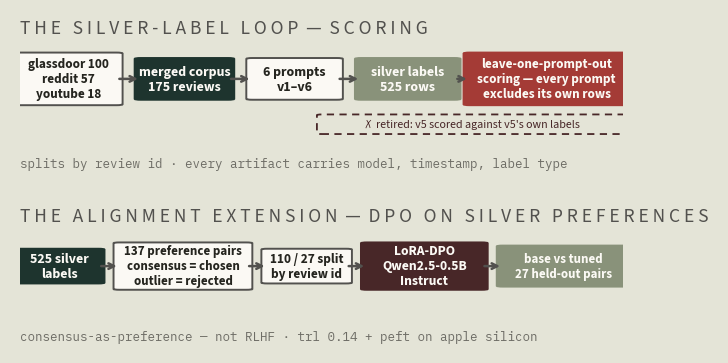
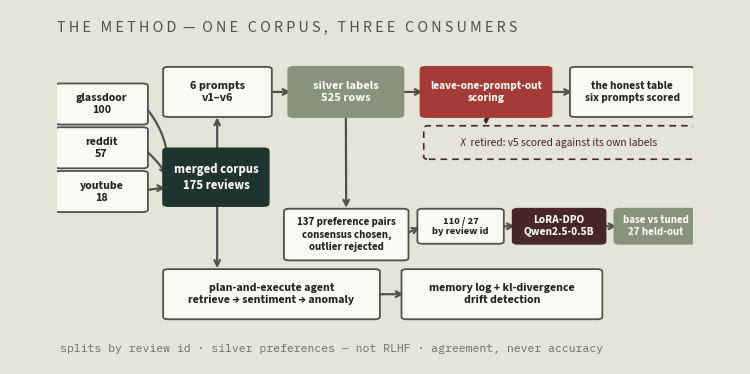
Redraw the method schematic as one combined flow diagram
Replaces the two flat chip rows with the story the portfolio entry
tells: three sources fanning into the merged corpus, three consumer
lanes fanning out (evaluation harness with the wine-dashed retired
self-scoring failure site, alignment extension fed by the labels,
plan-and-execute agent with memory and drift), connected by explicit
arrows. Same fieldnotes theme, art-box aspect padding, no metrics.

diff --git a/scripts/portfolio_method_schematic.py b/scripts/portfolio_method_schematic.py
@@ -1,16 +1,14 @@
 #!/usr/bin/env python3
 """Method schematic for the portfolio card: how ReviewInsight AI works.
 
-Band 1: the silver-label scoring loop (three-source corpus -> six prompt
-templates -> silver labels -> leave-one-prompt-out scoring), with the wine
-dashed annotation marking the retired self-scoring failure site.
-Band 2: the alignment extension (silver labels -> constructed preference
-pairs -> review-ID split -> LoRA-DPO -> held-out base-vs-tuned check).
+One combined flow diagram (not two flat rows): three sources fan into the
+merged corpus, and three consumer lanes fan out — the evaluation harness,
+the alignment extension (fed by the labels, with the retired self-scoring
+failure site marked wine-dashed), and the agent that reads the same corpus.
+Counts, model names, and protocol values are real; no metrics are drawn.
 
-Illustrative diagram: counts, model names, and protocol values are real
-(frozen artifacts named in the entry); no metrics are drawn. Fieldnotes
-theme, Source Sans 3 / IBM Plex Mono, canvas padded to the gallery art-box
-aspect at save time. Structure copied from
+Fieldnotes theme, Source Sans 3 / IBM Plex Mono, canvas padded to the
+gallery art-box aspect at save time. Structure follows
 ~/retailPRED-satellite/scripts/method_schematic.py.
 """
 
@@ -25,12 +23,8 @@ matplotlib.use("Agg")
 import matplotlib.colors
 import matplotlib.pyplot as plt
 import numpy as np
-from matplotlib.lines import Line2D
 from matplotlib.patches import FancyBboxPatch
 
-# The site's loaded fonts: Source Sans 3 is the body voice, IBM Plex Mono
-# the label/caption voice. Both are installed locally as static TTFs —
-# matplotlib silently falls back to DejaVu Sans when a family is missing.
 plt.rcParams["font.sans-serif"] = ["Source Sans 3", "Helvetica Neue", "Arial",
                                    "DejaVu Sans"]
 plt.rcParams["font.monospace"] = ["IBM Plex Mono", "Courier New",
@@ -54,22 +48,24 @@ plt.rcParams.update({
 })
 
 
-def chip(ax, x, y, w, h, text, fc, ec, tc="#fbf9f4", fs=10.5, weight="bold"):
-    ax.add_patch(FancyBboxPatch((x, y), w, h, boxstyle="round,pad=0.010",
-                                facecolor=fc, edgecolor=ec, linewidth=1.4,
+def chip(ax, x, y, w, h, text, fc, ec, tc="#fbf9f4", fs=9.0, weight="bold"):
+    ax.add_patch(FancyBboxPatch((x, y), w, h, boxstyle="round,pad=0.008",
+                                facecolor=fc, edgecolor=ec, linewidth=1.3,
                                 zorder=3))
     ax.text(x + w / 2, y + h / 2, text, ha="center", va="center",
-            fontsize=fs, color=tc, zorder=4, fontweight=weight)
+            fontsize=fs, color=tc, zorder=4, fontweight=weight,
+            linespacing=1.25)
 
 
-def arrow(ax, x0, y0, x1, y1, rad=0.0):
+def arrow(ax, x0, y0, x1, y1, rad=0.0, color=INK2, dashed=False):
     ax.annotate("", xy=(x1, y1), xytext=(x0, y0),
-                arrowprops=dict(arrowstyle="->", color=INK2, lw=1.8,
-                                connectionstyle=f"arc3,rad={rad}"))
+                arrowprops=dict(arrowstyle="->", color=color, lw=1.6,
+                                connectionstyle=f"arc3,rad={rad}",
+                                linestyle=(0, (4, 3)) if dashed else "solid"),
+                zorder=2)
 
 
 def spaced(s: str) -> str:
-    # matplotlib has no letter-spacing; mimic the site's mono eyebrows.
     return " ".join(s)
 
 
@@ -78,72 +74,68 @@ def main() -> None:
         Path(__file__).resolve().parents[1] / "figures" / "portfolio" / "method_schematic.png")
     out.parent.mkdir(parents=True, exist_ok=True)
 
-    fig = plt.figure(figsize=(6.42, 3.30))  # padded to the art-box aspect at save
-    gs = fig.add_gridspec(2, 1, height_ratios=(1.15, 1.0), hspace=0.66,
-                          left=0.03, right=0.97, top=0.905, bottom=0.03)
-
-    # ---- band 1: the silver-label scoring loop ----------------------------
-    ax = fig.add_subplot(gs[0])
+    fig = plt.figure(figsize=(6.42, 3.45))
+    ax = fig.add_axes((0.005, 0.055, 0.99, 0.875))
     ax.set_xlim(0, 1)
-    ax.set_ylim(-0.28, 1.0)
+    ax.set_ylim(0, 1)
     ax.axis("off")
-    ax.set_title(spaced("THE SILVER-LABEL LOOP") + "  —  " + spaced("SCORING"),
-                 fontsize=14, color=INK2, loc="left", pad=8)
+    ax.set_title(spaced("THE METHOD") + "  —  " + spaced("ONE CORPUS, THREE CONSUMERS"),
+                 fontsize=11.5, color=INK2, loc="left", pad=7)
 
-    chip(ax, 0.000, 0.34, 0.160, 0.56,
-         "glassdoor 100\nreddit 57\nyoutube 18", PAPER, INK2, INK, fs=9.5)
-    chip(ax, 0.200, 0.40, 0.145, 0.44, "merged corpus\n175 reviews", SUMI, SUMI, fs=10)
-    chip(ax, 0.385, 0.40, 0.140, 0.44, "6 prompts\nv1–v6", PAPER, INK2, INK, fs=10)
-    chip(ax, 0.565, 0.40, 0.155, 0.44,
-         "silver labels\n525 rows", SAGE, SAGE, fs=10)
-    chip(ax, 0.745, 0.34, 0.255, 0.56,
-         "leave-one-prompt-out\nscoring — every prompt\nexcludes its own rows",
-         CRIMSON, CRIMSON, fs=9.5)
-    for x0, x1 in ((0.160, 0.200), (0.345, 0.385), (0.525, 0.565), (0.720, 0.745)):
-        arrow(ax, x0, 0.62, x1, 0.62)
+    # ---- sources (left column), fanning into the corpus -------------------
+    chip(ax, 0.005, 0.730, 0.130, 0.120, "glassdoor\n100", PAPER, INK2, INK, 8.6)
+    chip(ax, 0.005, 0.585, 0.130, 0.120, "reddit\n57", PAPER, INK2, INK, 8.6)
+    chip(ax, 0.005, 0.440, 0.130, 0.120, "youtube\n18", PAPER, INK2, INK, 8.6)
 
-    # the retired failure site — wine dashed chip, house style honesty mark
-    ax.add_patch(FancyBboxPatch((0.500, 0.02), 0.500, 0.20,
+    chip(ax, 0.175, 0.460, 0.150, 0.175, "merged corpus\n175 reviews", SUMI, SUMI, fs=9.2)
+    arrow(ax, 0.135, 0.790, 0.175, 0.585, rad=-0.18)
+    arrow(ax, 0.135, 0.645, 0.175, 0.5475, rad=-0.08)
+    arrow(ax, 0.135, 0.500, 0.175, 0.510, rad=-0.10)
+
+    # ---- lane 1: the evaluation harness (top row) -------------------------
+    chip(ax, 0.175, 0.755, 0.155, 0.150, "6 prompts\nv1–v6", PAPER, INK2, INK, 8.8)
+    chip(ax, 0.372, 0.755, 0.165, 0.150, "silver labels\n525 rows", SAGE, SAGE, fs=9.0)
+    chip(ax, 0.580, 0.755, 0.190, 0.150, "leave-one-prompt-out\nscoring", CRIMSON, CRIMSON, fs=8.2)
+    chip(ax, 0.815, 0.755, 0.180, 0.150, "the honest table\nsix prompts scored", PAPER, INK2, INK, 8.2)
+    arrow(ax, 0.252, 0.635, 0.252, 0.755)          # corpus -> prompts
+    arrow(ax, 0.330, 0.830, 0.372, 0.830)
+    arrow(ax, 0.537, 0.830, 0.580, 0.830)
+    arrow(ax, 0.770, 0.830, 0.815, 0.830)
+
+    # the retired failure site — wine dashed, hangs under the gate
+    ax.add_patch(FancyBboxPatch((0.585, 0.615), 0.410, 0.095,
                                 boxstyle="round,pad=0.008",
-                                facecolor="none", edgecolor=WINE, linewidth=1.3,
+                                facecolor="none", edgecolor=WINE, linewidth=1.2,
                                 linestyle=(0, (4, 3)), zorder=3))
-    ax.text(0.750, 0.12, "✗  retired: v5 scored against v5's own labels",
-            ha="center", va="center", fontsize=8.6, color=WINE,
+    ax.text(0.790, 0.6625, "✗  retired: v5 scored against its own labels",
+            ha="center", va="center", fontsize=8.2, color=WINE,
             style="italic", zorder=4)
-    ax.text(0.0, -0.24, "splits by review id · every artifact carries model, "
-            "timestamp, label type",
-            fontsize=9, color=MUTED, ha="left", va="top",
+    arrow(ax, 0.675, 0.755, 0.675, 0.712, color=WINE, dashed=True)
+
+    # ---- lane 2: the alignment extension (middle row), fed by the labels --
+    chip(ax, 0.365, 0.280, 0.180, 0.155, "137 preference pairs\nconsensus chosen,\noutlier rejected",
+         PAPER, INK2, INK, 7.9)
+    chip(ax, 0.575, 0.335, 0.120, 0.100, "110 / 27\nby review id", PAPER, INK2, INK, 7.6)
+    chip(ax, 0.725, 0.335, 0.130, 0.100, "LoRA-DPO\nQwen2.5-0.5B", WINE, WINE, fs=8.2)
+    chip(ax, 0.885, 0.335, 0.115, 0.100, "base vs tuned\n27 held-out", SAGE, SAGE, fs=7.9)
+    arrow(ax, 0.4545, 0.755, 0.455, 0.437)         # labels -> preference pairs
+    arrow(ax, 0.545, 0.3575, 0.575, 0.385)
+    arrow(ax, 0.695, 0.385, 0.725, 0.385)
+    arrow(ax, 0.855, 0.385, 0.885, 0.385)
+
+    # ---- lane 3: the agent (bottom row), fed by the same corpus -----------
+    chip(ax, 0.175, 0.085, 0.325, 0.150, "plan-and-execute agent\nretrieve → sentiment → anomaly",
+         PAPER, INK2, INK, 8.6)
+    chip(ax, 0.550, 0.085, 0.300, 0.150, "memory log + kl-divergence\ndrift detection", PAPER, INK2, INK, 8.6)
+    arrow(ax, 0.252, 0.460, 0.252, 0.237)          # corpus -> agent
+    arrow(ax, 0.500, 0.160, 0.550, 0.160)
+
+    # ---- footnotes ---------------------------------------------------------
+    ax.text(0.005, -0.005, "splits by review id · silver preferences — not RLHF · agreement, never accuracy",
+            fontsize=8.3, color=MUTED, ha="left", va="top",
             fontfamily="IBM Plex Mono")
 
-    # ---- band 2: the alignment extension ----------------------------------
-    ax2 = fig.add_subplot(gs[1])
-    ax2.set_xlim(0, 1)
-    ax2.set_ylim(-0.28, 1.0)
-    ax2.axis("off")
-    ax2.set_title(spaced("THE ALIGNMENT EXTENSION") + "  —  " + spaced("DPO ON SILVER PREFERENCES"),
-                  fontsize=14, color=INK2, loc="left", pad=8)
-
-    chip(ax2, 0.000, 0.36, 0.130, 0.42, "525 silver\nlabels", SUMI, SUMI, fs=10)
-    chip(ax2, 0.165, 0.28, 0.210, 0.58,
-         "137 preference pairs\nconsensus = chosen\noutlier = rejected", PAPER, INK2, INK, fs=9.3)
-    chip(ax2, 0.410, 0.36, 0.130, 0.42, "110 / 27 split\nby review id", PAPER, INK2, INK, fs=9.5)
-    chip(ax2, 0.575, 0.28, 0.190, 0.58,
-         "LoRA-DPO\nQwen2.5-0.5B\nInstruct", WINE, WINE, fs=9.8)
-    chip(ax2, 0.800, 0.32, 0.200, 0.50,
-         "base vs tuned\n27 held-out pairs", SAGE, SAGE, fs=9.3)
-    for x0, x1 in ((0.130, 0.165), (0.375, 0.410), (0.540, 0.575), (0.765, 0.800)):
-        arrow(ax2, x0, 0.57, x1, 0.57)
-
-    ax2.text(0.0, -0.24, "consensus-as-preference — not RLHF · trl 0.14 + peft "
-             "on apple silicon",
-             fontsize=9, color=MUTED, ha="left", va="top",
-             fontfamily="IBM Plex Mono")
-
-    # The gallery card box (.project-art, 320.7 x 160) shows previews with
-    # object-fit: cover, so the tight render is padded to the box's exact
-    # aspect — otherwise the centered crop amputates the titles. The wings
-    # are the same #e4e4d7 as the card background, making the padding
-    # invisible. (Save block copied from the retailpred reference script.)
+    # ---- save: pad to the art-box aspect (copied from the reference) ------
     buf = io.BytesIO()
     fig.savefig(buf, format="png", facecolor=SURFACE, bbox_inches="tight",
                 pad_inches=0.2)
@@ -152,12 +144,12 @@ def main() -> None:
     h, w = img.shape[:2]
     target = 320.7 / 160
     wing = matplotlib.colors.to_rgba(SURFACE)
-    if w < h * target:  # too tall: widen symmetrically
+    if w < h * target:
         pad = int(round(h * target)) - w
         wings = np.full((h, 1, 4), wing)
         img = np.concatenate([wings.repeat(pad // 2, 1), img,
                               wings.repeat(pad - pad // 2, 1)], axis=1)
-    elif h < w / target:  # too wide: pad top and bottom
+    elif h < w / target:
         pad = int(round(w / target)) - h
         wings = np.full((1, w, 4), wing)
         img = np.concatenate([wings.repeat(pad // 2, 0), img,
